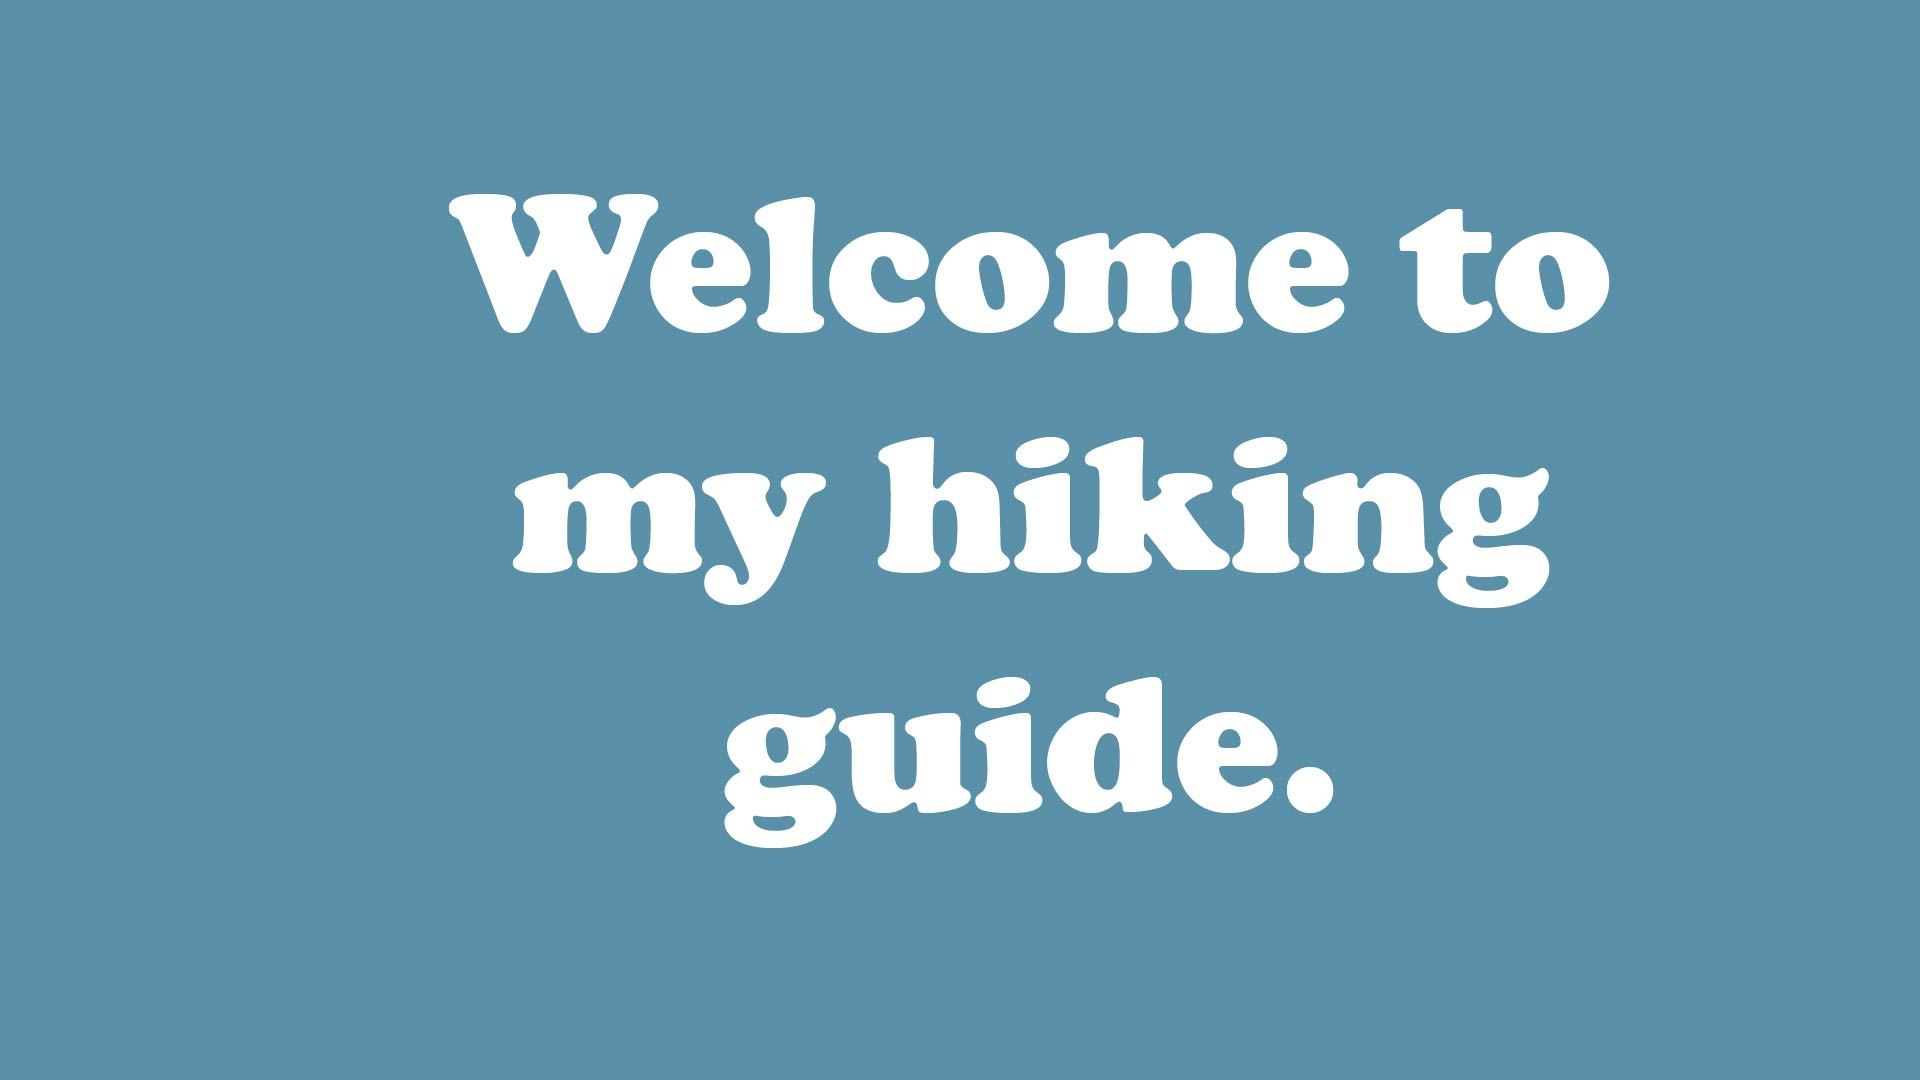
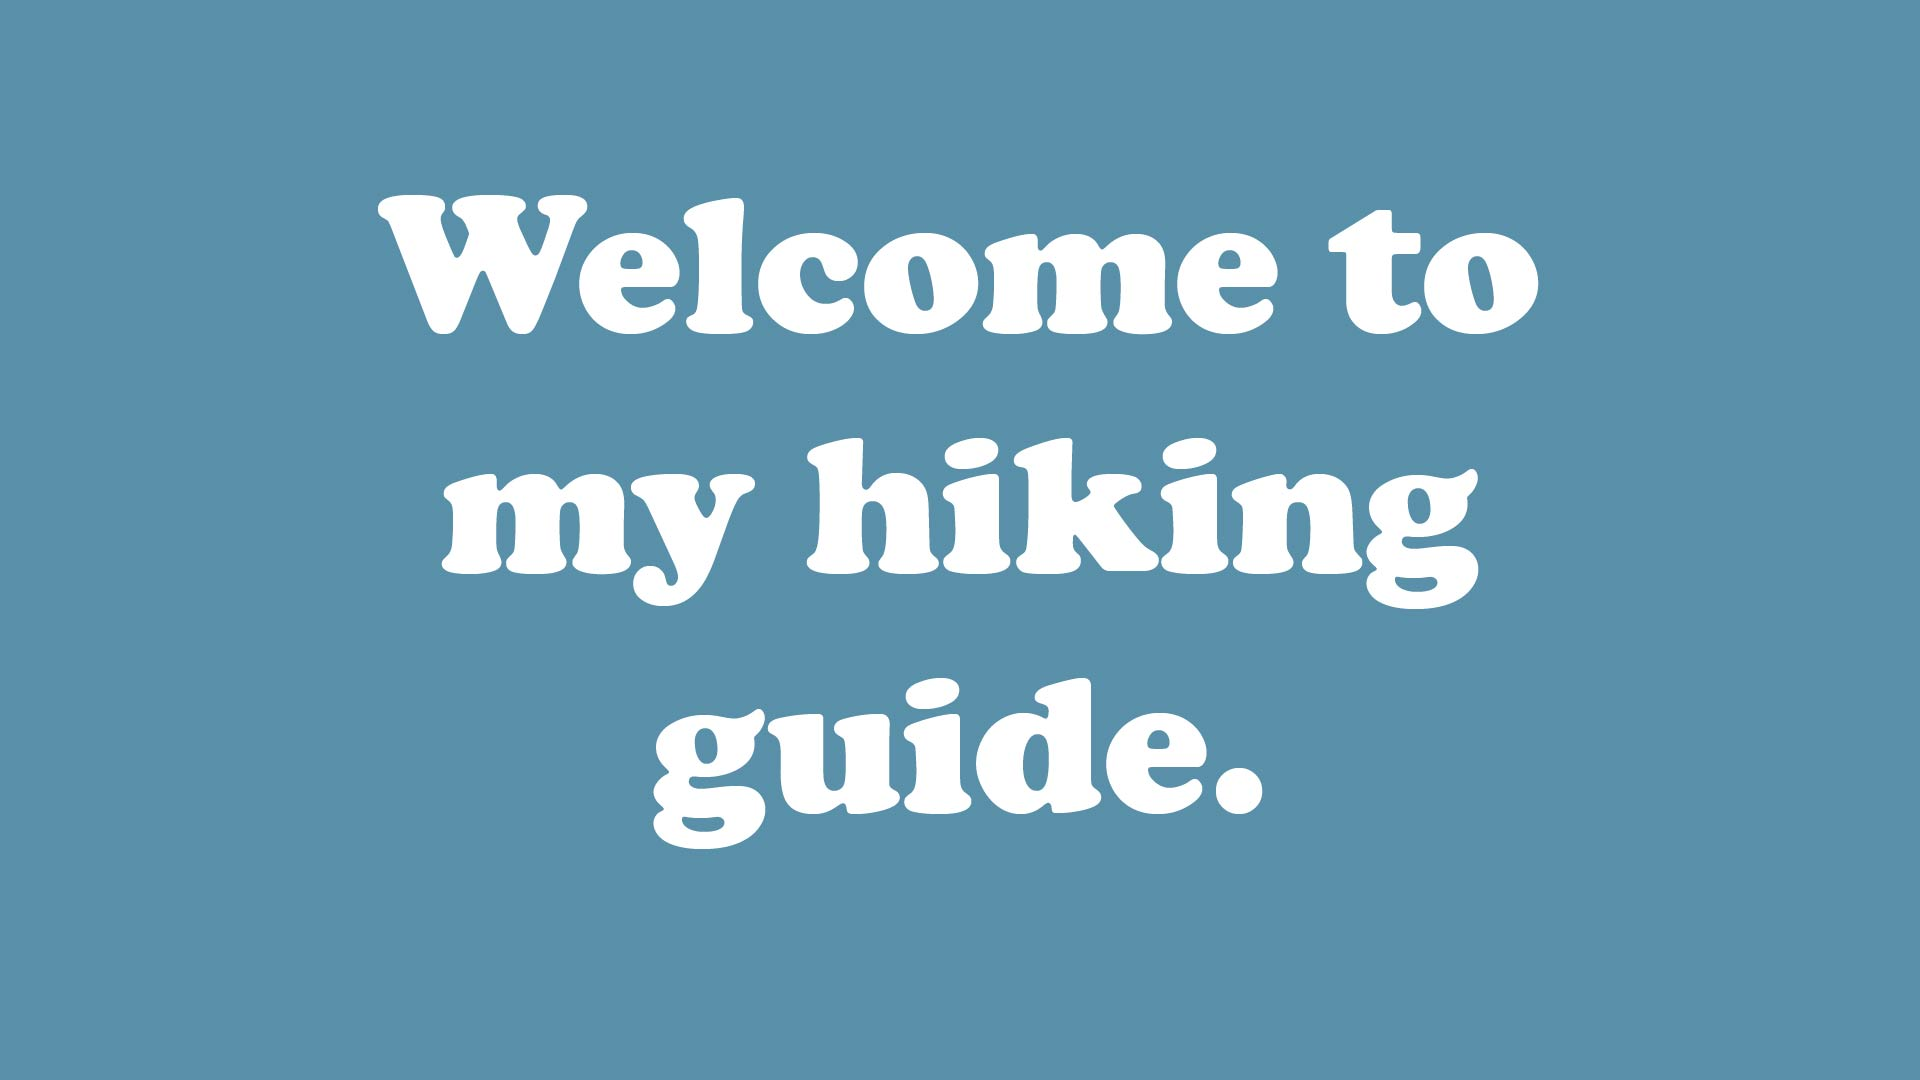
added better img

Changed region(s): [[0.2188, 0.3972, 0.8125, 0.5806], [0.1875, 0.1833, 0.8438, 0.3056], [0.3438, 0.6111, 0.7188, 0.7944]]

diff --git a/index.html b/index.html
@@ -13,7 +13,7 @@
     <p class="banner">Hiking Locations</p>
     <div id="slideShow">
       <div class="photoHolder">
-        <img class="thumbnail" id="photo" src="http://placehold.it/518x389?text=Welcome+to+my+Gallery" alt="Gallery Image"/>
+        <img class="thumbnail" id="photo" src="img/welcome.jpg" alt="Gallery Image"/>
         <img class="moreIndicator rot90" src="img/more.png" alt="More Content"/>
       </div>
       <div id="nav">
